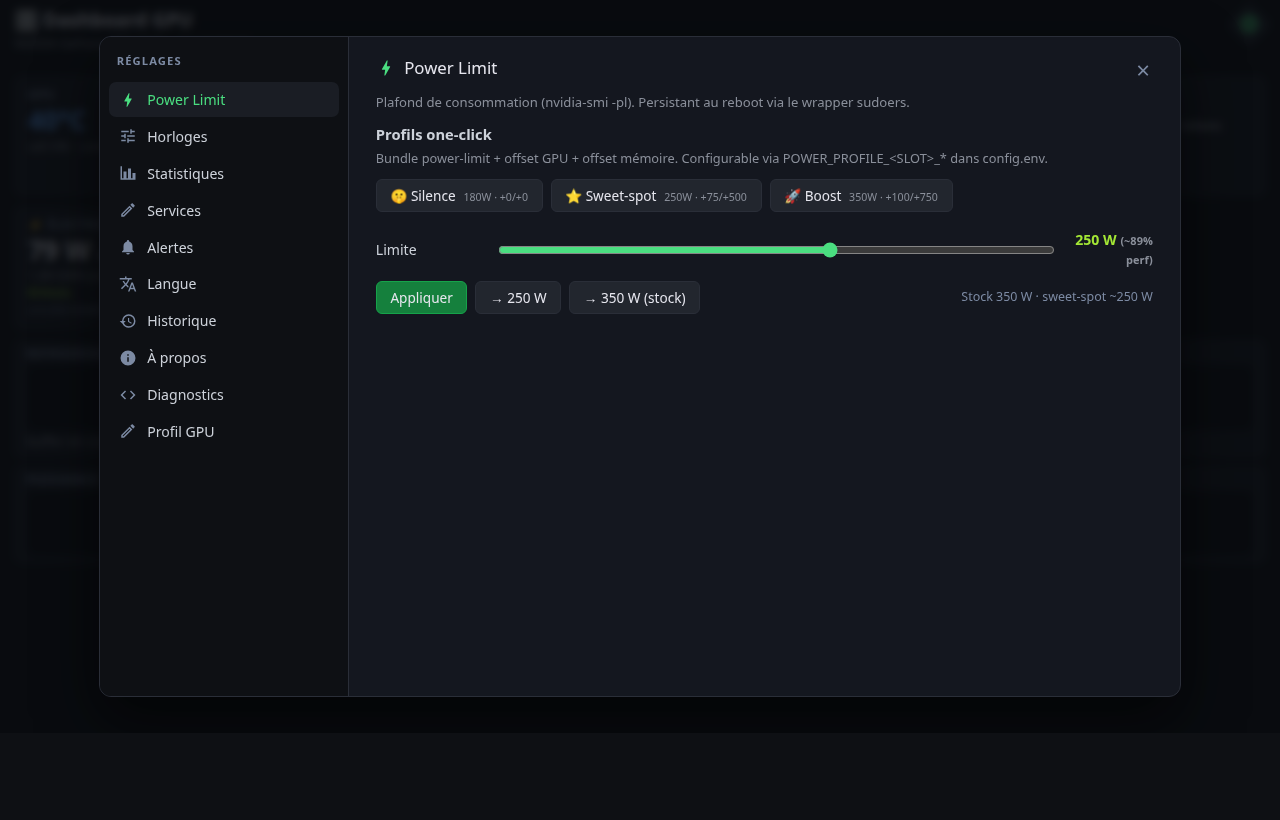
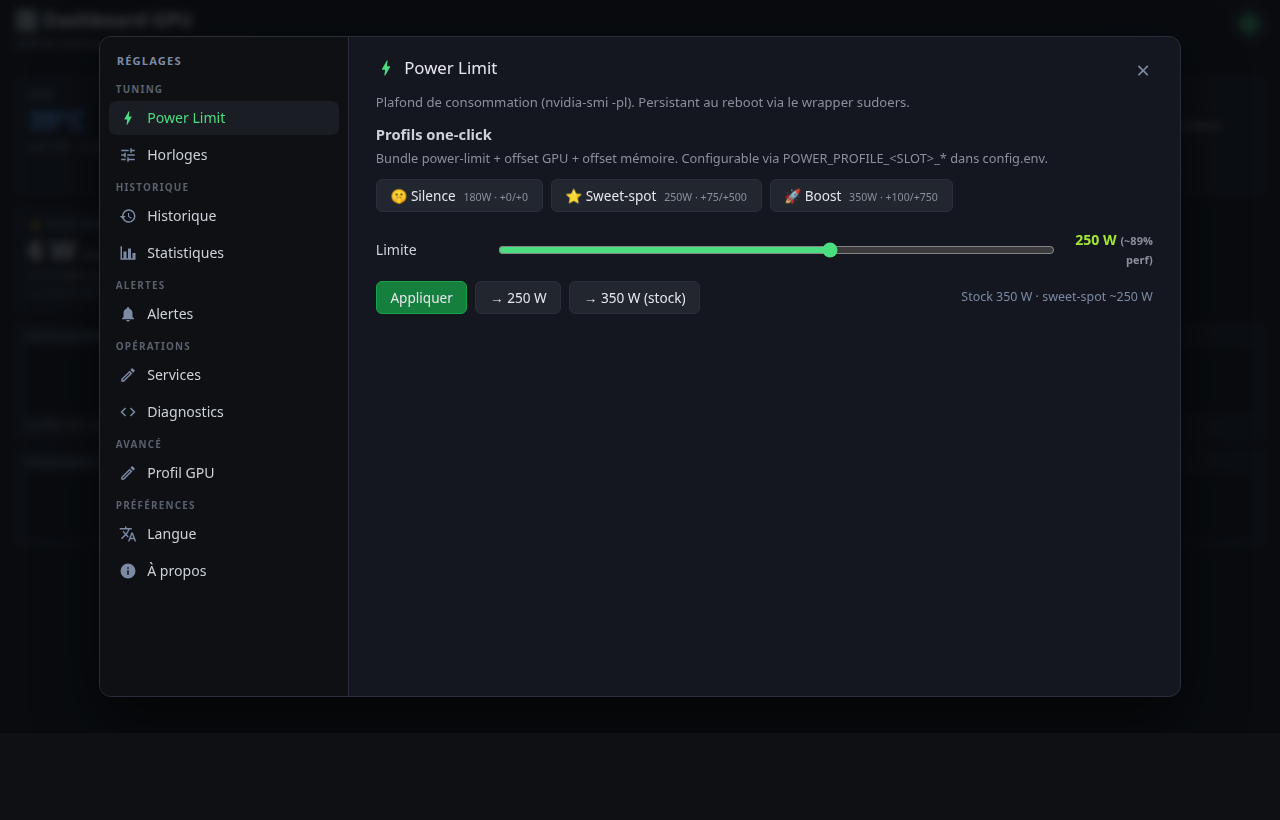
feat(ui): reorganize settings modal sidebar by usage groups
Before : 10 tabs in a flat list with no grouping (Power, Clocks, Stats,
Services, Alerts, Language, History, About, Diagnostics, Profile) —
hard to scan, no obvious order.

After : 6 named groups in a logical flow :

  TUNING       Power Limit · Clocks
  REVIEW       History · Statistics
  ALERTS       Alerts
  OPERATIONS   Services · Diagnostics
  ADVANCED     Profile
  PREFERENCES  Language · About

Group headers are small uppercased labels above each section, only
visible on desktop sidebar (hidden on mobile to keep the horizontal
scroll compact).

Implementation : added .group to each section descriptor + a
{#if i === 0 || prev.group !== this.group} header in the each loop.
12 new i18n keys (6 group labels × 2 languages).

The reorganized order matches typical usage frequency :
  - Tuning first (most-used : I want to set power limit)
  - Review second (what happened recently)
  - Alerts third (set up notifications once)
  - Operations fourth (restart / pull / snapshot)
  - Advanced fifth (override JSON for tinkerers)
  - Meta last (language / about — rarely touched)

Re-screenshotted docs/modal/power.png to reflect the new layout.

Changed region(s): [[0.0938, 0.061, 0.1875, 0.5793], [0.0938, 0.6098, 0.1562, 0.7012]]

diff --git a/frontend/src/components/SettingsModal.svelte b/frontend/src/components/SettingsModal.svelte
@@ -348,28 +348,46 @@
     return () => window.removeEventListener("keydown", onKey);
   });
 
+  // Sections grouped by usage frequency + category:
+  //   🎚️ Tuning (most-used)     : Power Limit, Clocks
+  //   📊 Review                  : History, Stats (fan-distribution)
+  //   🔔 Notifications           : Alerts
+  //   ⚙️ Operations              : Services (restart/stop/snapshot/update), Diagnostics
+  //   🧩 Advanced configuration  : Profile (JSON override)
+  //   🌐 Preferences / meta      : Language, About
+  // Section labels in the sidebar render group separators (see HTML below).
   const sections = [
-    { id: "power", labelKey: "modal.power" as const,
+    { id: "power", group: "tuning", labelKey: "modal.power" as const,
       icon: "M11 21h-1l1-7H7.5c-.58 0-.57-.32-.38-.66.19-.34.05-.08.07-.12C8.48 10.94 10.42 7.54 13 3h1l-1 7h3.5c.49 0 .56.33.47.51l-.07.15C12.96 17.55 11 21 11 21z" },
-    { id: "clocks", labelKey: "modal.clocks" as const,
+    { id: "clocks", group: "tuning", labelKey: "modal.clocks" as const,
       icon: "M3 17v2h6v-2H3M3 5v2h10V5H3m10 16v-2h8v-2h-8v-2h-2v6h2M7 9v2H3v2h4v2h2V9H7m14 4v-2H11v2h10m-6-4h2V7h4V5h-4V3h-2v6z" },
-    { id: "stats", labelKey: "modal.stats" as const,
-      icon: "M22 21H2V3h2v16h2v-9h4v9h2V6h4v13h2v-7h4v9z" },
-    { id: "services", labelKey: "modal.services" as const,
-      icon: "M14.06 9L15 9.94 5.92 19H5v-.92L14.06 9m3.6-6c-.25 0-.51.1-.7.29l-1.83 1.83 3.75 3.75 1.83-1.83a.996.996 0 0 0 0-1.41l-2.34-2.34c-.2-.2-.45-.29-.71-.29m-3.6 3.19L3 17.25V21h3.75L17.81 9.94l-3.75-3.75z" },
-    { id: "alerts", labelKey: "modal.alerts" as const,
-      icon: "M12 22a2.5 2.5 0 0 0 2.45-2H9.55A2.5 2.5 0 0 0 12 22m6-6V11c0-3.07-1.63-5.64-4.5-6.32V4a1.5 1.5 0 0 0-3 0v.68C7.64 5.36 6 7.92 6 11v5l-2 2v1h16v-1l-2-2z" },
-    { id: "language", labelKey: "modal.language" as const,
-      icon: "M12.87 15.07l-2.54-2.51.03-.03c1.74-1.94 2.98-4.17 3.71-6.53H17V4h-7V2H8v2H1v1.99h11.17C11.5 7.92 10.44 9.75 9 11.35 8.07 10.32 7.3 9.19 6.69 8h-2c.73 1.63 1.73 3.17 2.98 4.56l-5.09 5.02L4 19l5-5 3.11 3.11.76-2.04zM18.5 10h-2L12 22h2l1.12-3h4.75L21 22h2l-4.5-12zm-2.62 7l1.62-4.33L19.12 17h-3.24z" },
-    { id: "history", labelKey: "modal.history" as const,
+    { id: "history", group: "review", labelKey: "modal.history" as const,
       icon: "M13 3a9 9 0 0 0-9 9H1l4 4 4-4H6a7 7 0 1 1 7 7c-2.94 0-5.49-1.81-6.56-4.4l-1.89.61C5.84 18.45 9.16 21 13 21a9 9 0 0 0 0-18m-1 5v5l4.28 2.54.72-1.21-3.5-2.08V8z" },
-    { id: "about", labelKey: "modal.about" as const,
-      icon: "M13 9h-2V7h2m0 10h-2v-6h2m-1-9A10 10 0 0 0 2 12a10 10 0 0 0 10 10 10 10 0 0 0 10-10A10 10 0 0 0 12 2z" },
-    { id: "diagnostics", labelKey: "modal.diagnostics" as const,
+    { id: "stats", group: "review", labelKey: "modal.stats" as const,
+      icon: "M22 21H2V3h2v16h2v-9h4v9h2V6h4v13h2v-7h4v9z" },
+    { id: "alerts", group: "notify", labelKey: "modal.alerts" as const,
+      icon: "M12 22a2.5 2.5 0 0 0 2.45-2H9.55A2.5 2.5 0 0 0 12 22m6-6V11c0-3.07-1.63-5.64-4.5-6.32V4a1.5 1.5 0 0 0-3 0v.68C7.64 5.36 6 7.92 6 11v5l-2 2v1h16v-1l-2-2z" },
+    { id: "services", group: "ops", labelKey: "modal.services" as const,
+      icon: "M14.06 9L15 9.94 5.92 19H5v-.92L14.06 9m3.6-6c-.25 0-.51.1-.7.29l-1.83 1.83 3.75 3.75 1.83-1.83a.996.996 0 0 0 0-1.41l-2.34-2.34c-.2-.2-.45-.29-.71-.29m-3.6 3.19L3 17.25V21h3.75L17.81 9.94l-3.75-3.75z" },
+    { id: "diagnostics", group: "ops", labelKey: "modal.diagnostics" as const,
       icon: "M14.6 16.6L19.2 12L14.6 7.4L16 6l6 6-6 6-1.4-1.4M9.4 16.6L4.8 12l4.6-4.6L8 6l-6 6 6 6 1.4-1.4z" },
-    { id: "profile", labelKey: "modal.profile" as const,
+    { id: "profile", group: "advanced", labelKey: "modal.profile" as const,
       icon: "M14.06 9.02l.92.92L5.92 19H5v-.92l9.06-9.06M17.66 3c-.25 0-.51.1-.7.29l-1.83 1.83 3.75 3.75 1.83-1.83c.39-.39.39-1.04 0-1.41l-2.34-2.34c-.2-.2-.45-.29-.71-.29m-3.6 3.19L3 17.25V21h3.75L17.81 9.94l-3.75-3.75z" },
+    { id: "language", group: "meta", labelKey: "modal.language" as const,
+      icon: "M12.87 15.07l-2.54-2.51.03-.03c1.74-1.94 2.98-4.17 3.71-6.53H17V4h-7V2H8v2H1v1.99h11.17C11.5 7.92 10.44 9.75 9 11.35 8.07 10.32 7.3 9.19 6.69 8h-2c.73 1.63 1.73 3.17 2.98 4.56l-5.09 5.02L4 19l5-5 3.11 3.11.76-2.04zM18.5 10h-2L12 22h2l1.12-3h4.75L21 22h2l-4.5-12zm-2.62 7l1.62-4.33L19.12 17h-3.24z" },
+    { id: "about", group: "meta", labelKey: "modal.about" as const,
+      icon: "M13 9h-2V7h2m0 10h-2v-6h2m-1-9A10 10 0 0 0 2 12a10 10 0 0 0 10 10 10 10 0 0 0 10-10A10 10 0 0 0 12 2z" },
   ];
+
+  // Group headers (only shown on desktop sidebar)
+  const GROUP_LABELS: Record<string, string> = {
+    tuning: "modal.group_tuning",
+    review: "modal.group_review",
+    notify: "modal.group_notify",
+    ops: "modal.group_ops",
+    advanced: "modal.group_advanced",
+    meta: "modal.group_meta",
+  };
 
   // ── Profile editor state ──────────────────────────────────────────────────
   let profileText = $state("");
@@ -451,7 +469,10 @@
   <div class="modal">
     <div class="modal-sidebar">
       <h3>{i18n.t("modal.settings")}</h3>
-      {#each sections as s}
+      {#each sections as s, i}
+        {#if i === 0 || sections[i - 1].group !== s.group}
+          <div class="sidebar-group">{i18n.t(GROUP_LABELS[s.group] as any)}</div>
+        {/if}
         <button
           class="sidebar-item"
           class:active={modal.section === s.id}

diff --git a/frontend/src/app.css b/frontend/src/app.css
@@ -295,6 +295,18 @@ td:nth-child(2) { text-align: right; color: #cdd2da; }
 }
 .sidebar-item:hover { background: #1a1d24; color: #e6e6ee; }
 .sidebar-item.active { background: #1a1d24; color: #4ade80; }
+.sidebar-group {
+  margin: 0.7em 0.7em 0.2em;
+  font-size: 0.62em;
+  color: #5a606c;
+  text-transform: uppercase;
+  letter-spacing: 0.12em;
+  font-weight: 600;
+}
+.sidebar-group:first-of-type { margin-top: 0.1em; }
+@media (max-width: 768px) {
+  .sidebar-group { display: none; }   /* keep mobile sidebar compact */
+}
 .sidebar-item.active .icon { color: #4ade80; }
 .sidebar-item .icon { width: 18px; height: 18px; flex-shrink: 0; color: #7c8aa3; transition: color 0.15s; }
 .modal-content { flex: 1; padding: 1.3em 1.7em; overflow-y: auto; position: relative; }

diff --git a/src/gpu_dashboard/static/index.html b/src/gpu_dashboard/static/index.html
@@ -4,8 +4,8 @@
     <meta charset="UTF-8" />
     <meta name="viewport" content="width=device-width, initial-scale=1" />
     <title>GPU Dashboard</title>
-    <script type="module" crossorigin src="/static/assets/index-CaUrdIrG.js"></script>
-    <link rel="stylesheet" crossorigin href="/static/assets/index-C2x4ytgg.css">
+    <script type="module" crossorigin src="/static/assets/index-DcQbYRMl.js"></script>
+    <link rel="stylesheet" crossorigin href="/static/assets/index-Da1zg8zb.css">
   </head>
   <body>
     <div id="app"></div>

diff --git a/src/gpu_dashboard/static/assets/index-Da1zg8zb.css b/src/gpu_dashboard/static/assets/index-Da1zg8zb.css
@@ -1,0 +1,1 @@
+body{font-family:system-ui,-apple-system,sans-serif;margin:0;padding:.5em .9em .4em;background:#0e1014;color:#e6e6ee;line-height:1.3;display:flex;flex-direction:column;height:100vh;overflow:hidden;box-sizing:border-box}h1{margin:0 0 .15em;font-size:1.2em}.ts{color:#8a8f9a;font-size:.78em;margin-bottom:.6em}.row{display:grid;grid-template-columns:repeat(auto-fit,minmax(200px,1fr));gap:.6em;margin-bottom:.6em}.card{background:#1a1d24;border:1px solid #2a2e38;border-radius:8px;padding:.7em .8em}.card h2{margin:0 0 .25em;font-size:.72em;color:#7c8aa3;text-transform:uppercase;letter-spacing:.08em}.big{font-size:1.65em;font-weight:600;line-height:1.1}.sub{color:#8a8f9a;font-size:.82em;margin-top:.25em}.ok{color:#4ade80}.warn{color:#fbbf24}.bad{color:#f87171}.chart-row{display:flex;margin-bottom:.5em;min-height:0;overflow:hidden}.chart-row>.card{flex:1;display:flex;flex-direction:column;padding:.4em .7em;min-height:0;overflow:hidden}.chart-row>.card h2{flex-shrink:0}.chart-cool{flex:3;min-height:0}.chart-pow{flex:2;min-height:0}.hist,.hist-power{background:#0e1014;border-radius:8px;padding:6px;position:relative;flex:1;min-height:0}.hist svg,.hist-power svg{width:100%;height:100%;display:block}.hist circle.pt{transition:opacity .15s,r .15s;cursor:crosshair}.hist circle.pt:hover{opacity:1!important;r:5}.header{display:flex;justify-content:space-between;align-items:flex-start;margin-bottom:1em}.gear-btn{background:none;border:none;color:#7c8aa3;cursor:pointer;padding:.4em;border-radius:6px;transition:color .2s,background .2s,transform .3s;display:flex}.gear-btn:hover{color:#e6e6ee;background:#22262e}.gear-btn.active{color:#4ade80;background:#22262e;transform:rotate(45deg)}.gear-btn svg{width:22px;height:22px;display:block}.footer{color:#555;font-size:.75em;text-align:center;margin-top:2em}.footer a{color:#7c8aa3}.fan-visual{display:flex;justify-content:space-around;align-items:center;gap:.4em;margin-top:.25em}.fan-cell{display:flex;flex-direction:column;align-items:center;gap:1px;flex:1}.fan-svg{width:42px;height:42px;color:#7c8aa3;transform-origin:50% 50%;transition:color .25s}.fan-svg.spin{animation:spin var(--fan-dur, 2s) linear infinite}.fan-svg.off{opacity:.4}.fan-cell .rpm{font-size:.85em;color:#cdd2da;font-variant-numeric:tabular-nums;font-weight:500}.fan-cell .pct{font-size:.75em;color:#7c8aa3}.fan-cell .pct b{color:#e6e6ee;font-weight:500}@keyframes spin{0%{transform:rotate(0)}to{transform:rotate(360deg)}}.tuning-row{display:grid;grid-template-columns:60px 1fr 44px;align-items:center;gap:.4em;font-size:.78em;padding:.05em 0}.tuning-lbl{color:#7c8aa3;font-size:.82em}.tuning-val{color:#cdd2da;font-variant-numeric:tabular-nums}.tuning-val b{color:#e6e6ee;font-weight:600}.tuning-bar{height:4px;background:#22262e;border-radius:2px;overflow:hidden}.tuning-bar>div{height:100%;transition:width .3s}table{width:100%;border-collapse:collapse;font-size:.86em}td{padding:.2em .25em;vertical-align:middle}td:nth-child(2){text-align:right;color:#cdd2da}.bar{display:inline-block;height:6px;background:#3a3f4d;border-radius:3px;overflow:hidden}.bar>div{height:100%}.controls{background:#1a1d24;border:1px solid #2a2e38;border-radius:8px;padding:1em;margin-top:.8em}.slider-row{display:grid;grid-template-columns:110px 1fr 90px;align-items:center;gap:.7em;margin:.5em 0;font-size:.88em}.slider-row label{color:#cdd2da}.slider-row .val{color:#a3e635;font-variant-numeric:tabular-nums;font-weight:600;text-align:right}.slider-row input[type=range]{width:100%;accent-color:#4ade80;cursor:pointer}.btn-row{display:flex;gap:.5em;margin-top:.8em;align-items:center;flex-wrap:wrap}.btn{padding:.45em 1em;border:1px solid #2a2e38;background:#22262e;color:#e6e6ee;border-radius:6px;cursor:pointer;font-size:.85em;font-family:inherit;transition:background .15s,border-color .15s}.btn:hover{background:#2a2e38;border-color:#3a3f4d}.btn-primary{background:#15803d;border-color:#16a34a}.btn-primary:hover{background:#16a34a;border-color:#22c55e}.btn-danger{background:#7f1d1d;border-color:#991b1b;color:#fecaca}.btn-danger:hover{background:#991b1b;border-color:#b91c1c}.warn-text{color:#7c8aa3;font-size:.78em;margin-left:auto}.toast{position:fixed;top:1em;right:1em;padding:.7em 1.1em;border-radius:6px;background:#1a1d24;border:1px solid #2a2e38;color:#e6e6ee;font-size:.88em;opacity:0;transform:translateY(-8px);transition:opacity .25s,transform .25s;pointer-events:none;z-index:1000;max-width:420px;box-shadow:0 4px 16px #0006}.toast.show{opacity:1;transform:translateY(0)}.toast.ok{border-color:#4ade80}.toast.err{border-color:#f87171}.zone{display:inline-block;padding:.1em .5em;border-radius:3px;font-size:.62em;font-weight:600;margin-left:.5em;text-transform:uppercase;letter-spacing:.06em;vertical-align:middle}.zone.safe{background:#4ade8026;color:#4ade80;border:1px solid rgba(74,222,128,.4)}.zone.mod{background:#fbbf2426;color:#fbbf24;border:1px solid rgba(251,191,36,.4)}.zone.agg{background:#fb923c26;color:#fb923c;border:1px solid rgba(251,146,60,.4)}.zone.danger{background:#f871712e;color:#f87171;border:1px solid rgba(248,113,113,.4)}.ref-text{background:#0e1014;border-left:3px solid #4ade80;padding:.55em .8em;margin-bottom:.8em;font-size:.82em;color:#cdd2da;line-height:1.55;border-radius:0 4px 4px 0}.ref-text b{color:#e6e6ee}.ref-text code{background:#22262e;padding:.05em .35em;border-radius:3px;color:#a3e635;font-size:.92em}.advanced-row{margin-top:.3em;padding:.4em 0;font-size:.85em;color:#fbbf24;display:flex;align-items:center;gap:.4em;cursor:pointer;-webkit-user-select:none;user-select:none}.advanced-row input[type=checkbox]{margin:0;accent-color:#fbbf24;cursor:pointer}.locked-mark{color:#5a606c;font-size:.78em;margin-left:.5em}.modal-overlay{position:fixed;top:0;right:0;bottom:0;left:0;background:#080a0ec7;display:none;z-index:2000;align-items:center;justify-content:center;-webkit-backdrop-filter:blur(4px);backdrop-filter:blur(4px);animation:fadeIn .15s ease-out}.modal-overlay.show{display:flex}.modal{background:#14171f;border:1px solid #2a2e38;border-radius:12px;width:min(1080px,94vw);height:min(680px,90vh);display:flex;overflow:hidden;box-shadow:0 24px 60px #0009;position:relative}.modal-sidebar{width:230px;background:#0e1014;border-right:1px solid #2a2e38;padding:1.1em .55em;display:flex;flex-direction:column;gap:.15em;flex-shrink:0}.modal-sidebar h3{margin:0 .7em 1em;font-size:.7em;color:#7c8aa3;text-transform:uppercase;letter-spacing:.1em;font-weight:600}.sidebar-item{display:flex;align-items:center;gap:.7em;padding:.55em .75em;border-radius:7px;cursor:pointer;color:#cdd2da;font-size:.88em;transition:background .15s,color .15s;border:none;background:none;text-align:left;width:100%;font-family:inherit}.sidebar-item:hover{background:#1a1d24;color:#e6e6ee}.sidebar-item.active{background:#1a1d24;color:#4ade80}.sidebar-group{margin:.7em .7em .2em;font-size:.62em;color:#5a606c;text-transform:uppercase;letter-spacing:.12em;font-weight:600}.sidebar-group:first-of-type{margin-top:.1em}@media (max-width: 768px){.sidebar-group{display:none}}.sidebar-item.active .icon{color:#4ade80}.sidebar-item .icon{width:18px;height:18px;flex-shrink:0;color:#7c8aa3;transition:color .15s}.modal-content{flex:1;padding:1.3em 1.7em;overflow-y:auto;position:relative}.modal-content::-webkit-scrollbar{width:8px}.modal-content::-webkit-scrollbar-thumb{background:#2a2e38;border-radius:4px}.modal-close{position:absolute;top:.7em;right:.8em;background:none;border:none;color:#7c8aa3;cursor:pointer;font-size:1.5em;line-height:1;padding:.2em .45em;border-radius:6px;transition:all .15s;font-family:inherit}.modal-close:hover{background:#22262e;color:#e6e6ee}.modal-section{display:none}.modal-section.active{display:block;animation:fadeIn .18s ease-out}.modal-section h3.title{margin:0 0 .9em;font-size:1.05em;color:#e6e6ee;font-weight:500;display:flex;align-items:center;gap:.5em}.modal-section h3.title .icon{width:20px;height:20px;color:#4ade80}.modal-section .controls{margin-top:0}.form-row{display:grid;grid-template-columns:110px 1fr;align-items:center;gap:.8em;margin:.5em 0;font-size:.88em}.form-lbl{color:#cdd2da}.form-val{color:#e6e6ee}.al-input{width:100%;padding:.45em .65em;background:#0e1014;border:1px solid #2a2e38;border-radius:6px;color:#e6e6ee;font-family:SFMono-Regular,Consolas,monospace;font-size:.82em;box-sizing:border-box}.al-input:focus{outline:none;border-color:#4ade80}@keyframes fadeIn{0%{opacity:0;transform:translateY(-4px)}to{opacity:1;transform:translateY(0)}}.about-table{width:100%}.about-table td{padding:.4em .5em;vertical-align:top}.about-table td:first-child{color:#7c8aa3;width:130px}.about-table code{background:#0e1014;padding:.15em .45em;border-radius:3px;color:#a3e635;font-size:.85em;word-break:break-all}@media (max-width: 768px){body{height:auto;min-height:100vh;overflow-x:hidden;overflow-y:auto;padding:.4em .5em}h1{font-size:1.1em}.row{grid-template-columns:repeat(auto-fit,minmax(150px,1fr));gap:.4em}.card{padding:.55em .65em}.big{font-size:1.4em}.card h2{font-size:.68em}.chart-row{min-height:220px}.hist,.hist-power{min-height:200px}.modal{width:100vw;height:100vh;border-radius:0;flex-direction:column}.modal-sidebar{width:100%;flex-direction:row;overflow-x:auto;padding:.5em;border-right:none;border-bottom:1px solid #2a2e38;flex-shrink:0}.modal-sidebar h3{display:none}.sidebar-item{flex:0 0 auto;padding:.4em .6em;font-size:.78em}.sidebar-item span{display:none}.modal-content{padding:.8em}}@media (max-width: 600px){.row{grid-template-columns:1fr}.chart-row{min-height:180px;overflow-x:auto}.slider-row{grid-template-columns:80px 1fr 80px;font-size:.82em}.form-row{grid-template-columns:90px 1fr;font-size:.82em}.btn{padding:.4em .7em;font-size:.82em}.btn-row{gap:.35em}.footer{font-size:.7em}.setup-container{width:100vw;height:100vh;min-height:100vh;border-radius:0}.setup-header,.setup-body,.setup-footer{padding-left:1em;padding-right:1em}.detect-table td:first-child{width:80px;font-size:.85em}.sudo-cmd code{font-size:.72em}}.profile-editor{width:100%;min-height:360px;padding:.6em .8em;background:#0e1014;border:1px solid #2a2e38;border-radius:6px;color:#a3e635;font-family:SFMono-Regular,Consolas,monospace;font-size:.82em;line-height:1.5;resize:vertical;outline:none}.profile-editor:focus{border-color:#4ade80}.logs-pre{background:#0e1014;border:1px solid #2a2e38;border-radius:6px;padding:.7em .9em;font-family:SFMono-Regular,Consolas,monospace;font-size:.78em;line-height:1.45;color:#cdd2da;max-height:420px;overflow-y:auto;margin:0;white-space:pre-wrap;word-break:break-all}.setup-overlay.svelte-1xu0oz6{position:fixed;top:0;right:0;bottom:0;left:0;background:#0e1014;z-index:3000;display:flex;align-items:center;justify-content:center;padding:2em 1em;overflow-y:auto}.setup-container.svelte-1xu0oz6{background:#14171f;border:1px solid #2a2e38;border-radius:12px;width:min(880px,96vw);min-height:min(620px,90vh);display:flex;flex-direction:column;box-shadow:0 24px 60px #0009}.setup-header.svelte-1xu0oz6{padding:1.4em 2em .8em;border-bottom:1px solid #2a2e38}.setup-header.svelte-1xu0oz6{position:relative}.setup-header.svelte-1xu0oz6 h1:where(.svelte-1xu0oz6){margin:0 0 .3em;font-size:1.4em}.setup-close.svelte-1xu0oz6{position:absolute;top:1.4em;right:1.6em;background:none;border:none;color:#7c8aa3;cursor:pointer;font-size:1.6em;line-height:1;padding:.1em .45em;border-radius:6px;transition:all .15s}.setup-close.svelte-1xu0oz6:hover{background:#22262e;color:#e6e6ee}.setup-step.svelte-1xu0oz6{color:#7c8aa3;font-size:.8em;margin-bottom:.6em}.setup-progress.svelte-1xu0oz6{display:flex;gap:.4em}.setup-progress.svelte-1xu0oz6 .dot:where(.svelte-1xu0oz6){flex:1;height:4px;border-radius:2px;background:#2a2e38}.setup-progress.svelte-1xu0oz6 .dot.done:where(.svelte-1xu0oz6){background:#4ade80}.setup-progress.svelte-1xu0oz6 .dot.active:where(.svelte-1xu0oz6){background:#fbbf24}.setup-body.svelte-1xu0oz6{flex:1;padding:1.5em 2em;overflow-y:auto}.setup-body.svelte-1xu0oz6 h2:where(.svelte-1xu0oz6){margin:0 0 .4em;font-size:1.2em;font-weight:500}.setup-body.svelte-1xu0oz6 h3:where(.svelte-1xu0oz6){margin:0 0 .4em;font-size:.95em;color:#cdd2da;font-weight:600}.detect-table.svelte-1xu0oz6{width:100%;margin-top:.5em}.detect-table.svelte-1xu0oz6 td:where(.svelte-1xu0oz6){padding:.4em 0;vertical-align:top}.detect-table.svelte-1xu0oz6 td:where(.svelte-1xu0oz6):first-child{width:120px;color:#7c8aa3}.muted.svelte-1xu0oz6{color:#7c8aa3;font-size:.85em}.module-row.svelte-1xu0oz6{display:flex;align-items:flex-start;gap:.8em;padding:.7em .8em;border:1px solid #2a2e38;border-radius:8px;margin-bottom:.5em;cursor:pointer}.module-row.disabled.svelte-1xu0oz6{opacity:.5;cursor:not-allowed}.module-row.svelte-1xu0oz6 input[type=checkbox]:where(.svelte-1xu0oz6){margin-top:4px}.module-info.svelte-1xu0oz6{flex:1}.module-name.svelte-1xu0oz6{font-weight:600;color:#e6e6ee}.module-reason.svelte-1xu0oz6{color:#8a8f9a;font-size:.85em;margin-top:.25em}.tag.svelte-1xu0oz6{display:inline-block;padding:.1em .5em;border-radius:3px;font-size:.7em;font-weight:600;margin-left:.5em;text-transform:uppercase;letter-spacing:.06em}.tag.ok.svelte-1xu0oz6{background:#4ade8026;color:#4ade80;border:1px solid rgba(74,222,128,.4)}.tag.bad.svelte-1xu0oz6{background:#f871712e;color:#f87171;border:1px solid rgba(248,113,113,.4)}.tag.rec.svelte-1xu0oz6{background:#fbbf2426;color:#fbbf24;border:1px solid rgba(251,191,36,.4)}.tag.warn.svelte-1xu0oz6{background:#fb923c26;color:#fb923c;border:1px solid rgba(251,146,60,.4)}.sudo-block.svelte-1xu0oz6{border:1px solid #2a2e38;border-radius:8px;padding:.8em 1em;margin-bottom:.8em;background:#0e1014}.sudo-head.svelte-1xu0oz6{display:flex;align-items:center;gap:.5em;margin-bottom:.6em}.sudo-cmd.svelte-1xu0oz6{display:flex;gap:.4em;align-items:center;margin-bottom:.5em}.sudo-cmd.svelte-1xu0oz6 code:where(.svelte-1xu0oz6){flex:1;background:#1a1d24;padding:.5em .7em;border-radius:4px;color:#a3e635;font-size:.82em;word-break:break-all;-webkit-user-select:all;user-select:all}.sudo-actions.svelte-1xu0oz6{display:flex;align-items:center;gap:.8em;font-size:.82em}.setup-footer.svelte-1xu0oz6{padding:1em 2em;border-top:1px solid #2a2e38;display:flex;align-items:center;gap:.6em}.idle-banner.svelte-1stax0c{display:flex;align-items:center;gap:.9em;background:linear-gradient(to right,#14171f,#1a1d24);border:1px solid #2a2e38;border-left:4px solid #fbbf24;border-radius:8px;padding:.7em 1em;margin:0 0 .6em;box-shadow:0 2px 8px #0000004d}.idle-icon.svelte-1stax0c{font-size:1.6em}.idle-text.svelte-1stax0c{flex:1}.idle-text.svelte-1stax0c strong:where(.svelte-1stax0c){color:#fbbf24}.idle-sub.svelte-1stax0c{font-size:.82em;color:#8a8f9a;margin-top:.2em}.idle-actions.svelte-1stax0c{display:flex;gap:.4em}